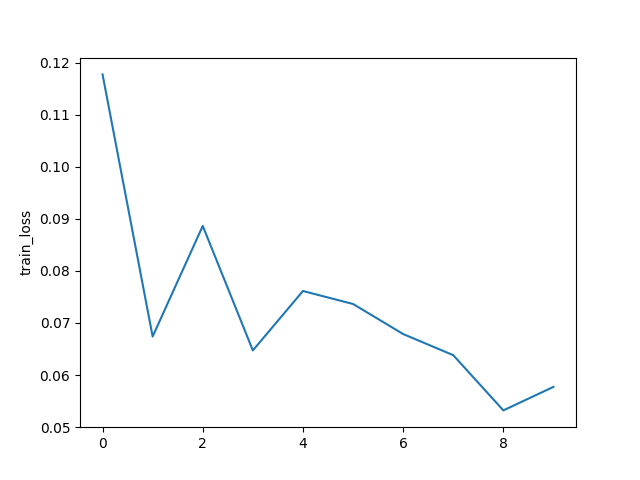
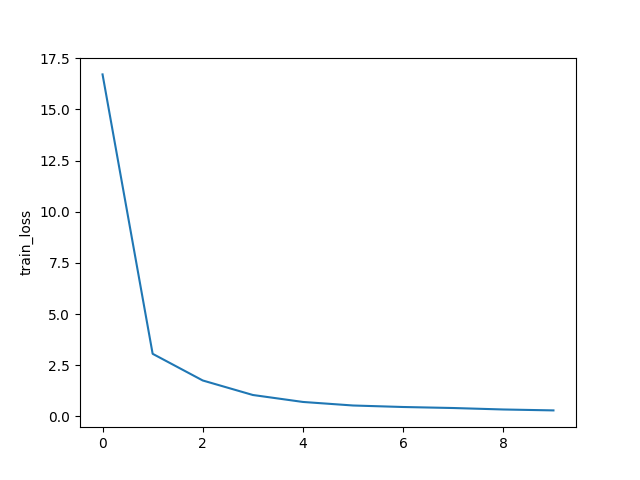
add size imbalance comparsion

diff --git a/main_fed.py b/main_fed.py
@@ -15,6 +15,65 @@ import DataProcessor
 matplotlib.use('Agg')
 
 
+def train(net_glob, db, w_glob, args):
+    # training
+    loss_train = []
+    cv_loss, cv_acc = [], []
+    val_loss_pre, counter = 0, 0
+    net_best = None
+    best_loss = None
+    val_acc_list, net_list = [], []
+
+    # originally assign clients and Fed Avg -> mediator Fed Avg
+    if args.all_clients:
+        print("Aggregation over all clients")
+        w_locals = [w_glob for i in range(args.num_users)]
+    # 3 : for each synchronization round r=1; 2; . . . ; R do
+    for iter in range(args.epochs):
+        # 4 : for each mediator m in 1; 2; . . . ; M parallelly do
+        for mdt in db.mediator:
+            # 5- :
+            loss_locals = []
+            if not args.all_clients:
+                w_locals = []
+            for client in mdt:
+                local = LocalUpdate(args=args, dataset=dp, idxs=dp.local_train_index[client])
+                w, loss = local.train(
+                    net=copy.deepcopy(net_glob).to(args.device))  # for lEpoch in range(E): 在local.train完成
+                if args.all_clients:
+                    w_locals[client] = copy.deepcopy(w)
+                else:
+                    w_locals.append(copy.deepcopy(w))
+                loss_locals.append(copy.deepcopy(loss))
+
+        # update global weights
+        w_glob = FedAvg(w_locals)
+
+        # copy weight to net_glob
+        net_glob.load_state_dict(w_glob)
+
+        # print loss
+        loss_avg = sum(loss_locals) / len(loss_locals)
+        print('Round {:3d}, Average loss {:.3f}'.format(iter, loss_avg))
+        loss_train.append(loss_avg)
+
+    # plot loss curve
+    plt.figure()
+    plt.plot(range(len(loss_train)), loss_train)
+    plt.ylabel('train_loss')
+    plt.savefig('./save/fed_{}_{}_{}_C{}_iid{}.png'.format(args.dataset, args.model, args.epochs, args.frac, args.iid))
+    return net_glob
+
+
+def test(net_glob, dp, args):
+    net_glob.eval()
+    acc_train, loss_train = test_img(net_glob, dp, args)
+    dp.type = 'test'
+    acc_test, loss_test = test_img(net_glob, dp, args)
+    print("Training accuracy: {:.2f}".format(acc_train))
+    print("Testing accuracy: {:.2f}".format(acc_test))
+
+
 if __name__ == '__main__':
     # parse args
     args = args_parser()
@@ -22,18 +81,17 @@ if __name__ == '__main__':
     # new instances for DataProcessor and DataBalance
     dp = DataProcessor.DataProcessor()
     dp.get_input('mnist')
-    dp.gen_size_imbalance([5000, 2000, 1000])
-
+    if args.size_balance:
+        dp.gen_size_imbalance([5000, 2000, 1000])
+    elif args.local_balance:
+        dp.gen_local_imbalance(10, 5000, 0)
+    # without self-balanced
     db = DataBalance.DataBalance(dp)
-    if args.balance:
-        db.z_score()
-        db.assign_clients()
-    else:
-        db.assign_clients(False)
+    db.assign_clients(False)
     # load dataset and split users
     img_size = dp[0][0].shape
 
-    # build model
+    # build original model
     net_glob = None
     if args.model == 'cnn' and args.dataset == 'cifar':
         net_glob = CNNCifar(args=args).to(args.device)
@@ -51,58 +109,30 @@ if __name__ == '__main__':
 
     # copy weights
     w_glob = net_glob.state_dict()
+    train(net_glob, db, w_glob, args)
+    test(net_glob, dp, args)
 
-    # training
-    loss_train = []
-    cv_loss, cv_acc = [], []
-    val_loss_pre, counter = 0, 0
-    net_best = None
-    best_loss = None
-    val_acc_list, net_list = [], []
-
-    # originally assign clients and Fed Avg -> mediator Fed Avg
-    if args.all_clients: 
-        print("Aggregation over all clients")
-        w_locals = [w_glob for i in range(args.num_users)]
-    # 3 : for each synchronization round r=1; 2; . . . ; R do
-    for iter in range(args.epochs):
-        # 4 : for each mediator m in 1; 2; . . . ; M parallelly do
-        for mdt in db.mediator: 
-            # 5- :
-            loss_locals = []
-            if not args.all_clients:
-                w_locals = []
-            for client in mdt:
-                local = LocalUpdate(args=args, dataset=dp, idxs=dp.local_train_index[client])
-                w, loss = local.train(net=copy.deepcopy(net_glob).to(args.device)) # for lEpoch in range(E): 在local.train完成
-                if args.all_clients:
-                    w_locals[client] = copy.deepcopy(w)
-                else:
-                    w_locals.append(copy.deepcopy(w))
-                loss_locals.append(copy.deepcopy(loss))
-        
-        # update global weights
-        w_glob = FedAvg(w_locals)
-
-        # copy weight to net_glob
-        net_glob.load_state_dict(w_glob)
-
-        # print loss
-        loss_avg = sum(loss_locals) / len(loss_locals)
-        print('Round {:3d}, Average loss {:.3f}'.format(iter, loss_avg))
-        loss_train.append(loss_avg)
-
-    # plot loss curve
-    plt.figure()
-    plt.plot(range(len(loss_train)), loss_train)
-    plt.ylabel('train_loss')
-    plt.savefig('./save/fed_{}_{}_{}_C{}_iid{}.png'.format(args.dataset, args.model, args.epochs, args.frac, args.iid))
-
-    # testing
-    net_glob.eval()
-    acc_train, loss_train = test_img(net_glob, dp, args)
-    dp.type = 'test'
-    acc_test, loss_test = test_img(net_glob, dp, args)
-    print("Training accuracy: {:.2f}".format(acc_train))
-    print("Testing accuracy: {:.2f}".format(acc_test))
-
+    # build new model
+    net_glob = None
+    if args.model == 'cnn' and args.dataset == 'cifar':
+        net_glob = CNNCifar(args=args).to(args.device)
+    elif args.model == 'cnn' and args.dataset == 'mnist':
+        net_glob = CNNMnist(args=args).to(args.device)
+    elif args.model == 'mlp':
+        len_in = 1
+        for x in img_size:
+            len_in *= x
+        net_glob = MLP(dim_in=len_in, dim_hidden=200, dim_out=args.num_classes).to(args.device)
+    else:
+        exit('Error: unrecognized model')
+    print(net_glob)
+    net_glob.train()
+    # copy weights
+    w_glob = net_glob.state_dict()
+    # self balanced
+    db = DataBalance.DataBalance(dp)
+    db.z_score()
+    db.assign_clients()
+    dp.type = "train"
+    train(net_glob, db, w_glob, args)
+    test(net_glob, dp, args)

diff --git a/models/test.py b/models/test.py
@@ -6,6 +6,7 @@ import torch
 from torch import nn
 import torch.nn.functional as F
 from torch.utils.data import DataLoader
+from sklearn.metrics import classification_report
 
 
 def test_img(net_g, datatest, args):
@@ -15,6 +16,8 @@ def test_img(net_g, datatest, args):
     correct = 0
     data_loader = DataLoader(datatest, batch_size=args.bs)
     l = len(data_loader)
+    y_pred_list = []
+    y_true_list = []
     for idx, (data, target) in enumerate(data_loader):
         if args.gpu != -1:
             data, target = data.cuda(), target.cuda()
@@ -23,10 +26,13 @@ def test_img(net_g, datatest, args):
         test_loss += F.cross_entropy(log_probs, target, reduction='sum').item()
         # get the index of the max log-probability
         y_pred = log_probs.data.max(1, keepdim=True)[1]
+        y_pred_list += y_pred
+        y_true_list += target
         correct += y_pred.eq(target.data.view_as(y_pred)).long().cpu().sum()
 
     test_loss /= len(data_loader.dataset)
     accuracy = 100.00 * correct / len(data_loader.dataset)
+    # print(classification_report(y_true_list, y_pred_list))
     if args.verbose:
         print('\nTest set: Average loss: {:.4f} \nAccuracy: {}/{} ({:.2f}%)\n'.format(
             test_loss, correct, len(data_loader.dataset), accuracy))

diff --git a/DataProcessor.py b/DataProcessor.py
@@ -143,6 +143,8 @@ class DataProcessor:
         self.size_device = num_device
         self.local_train_feature = []
         self.local_train_label = []
+        # init local train index
+        self.local_train_index = []
 
         # separate data set by label 0 - 9
         feature_by_class = []
@@ -195,6 +197,8 @@ class DataProcessor:
         self.size_device = len(list_size)
         self.local_train_feature = []
         self.local_train_label = []
+        # init local_train_index
+        self.local_train_index = []
 
         need_idx = np.arange(len(self.train_feature))
         np.random.shuffle(need_idx)

diff --git a/utils/options.py b/utils/options.py
@@ -7,6 +7,8 @@ import argparse
 def args_parser():
     parser = argparse.ArgumentParser()
     parser.add_argument("--balance", action='store_true', help='whether we balance the dataset')
+    parser.add_argument("--size_balance", action='store_true', help='is there size imbalanced')
+    parser.add_argument("--local_balance", action='store_true', help='is there size imbalanced')
     # federated arguments
     parser.add_argument('--epochs', type=int, default=10, help="rounds of training")
     parser.add_argument('--num_users', type=int, default=3, help="number of users: K")

diff --git a/DataBalance.py b/DataBalance.py
@@ -120,6 +120,7 @@ class DataBalance:
 
             rand_select = random.random()
             image_aug = None
+            image = image.astype(np.uint8)
             # augment the new image
             if rand_select < 0.25:
                 image_aug = self.rotate(image)
